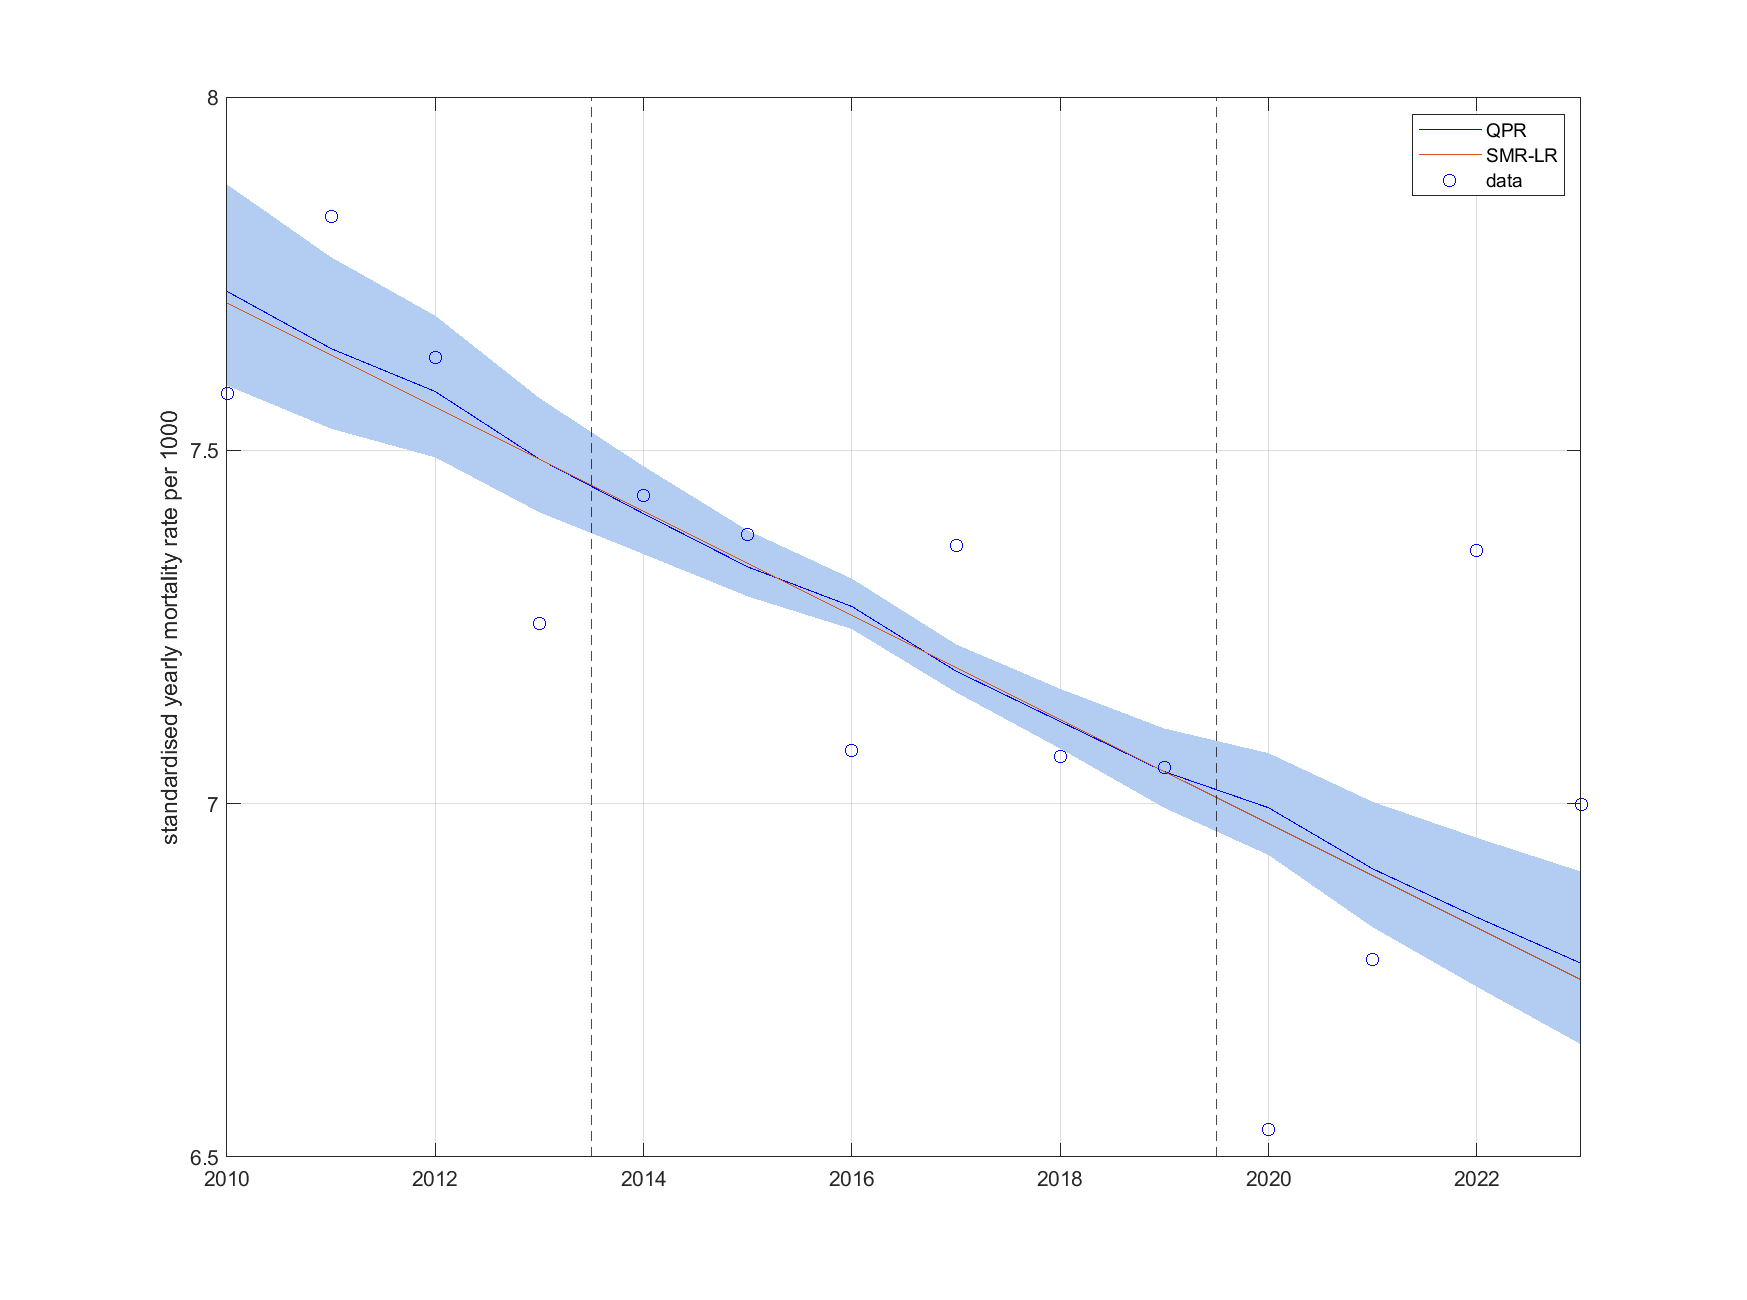
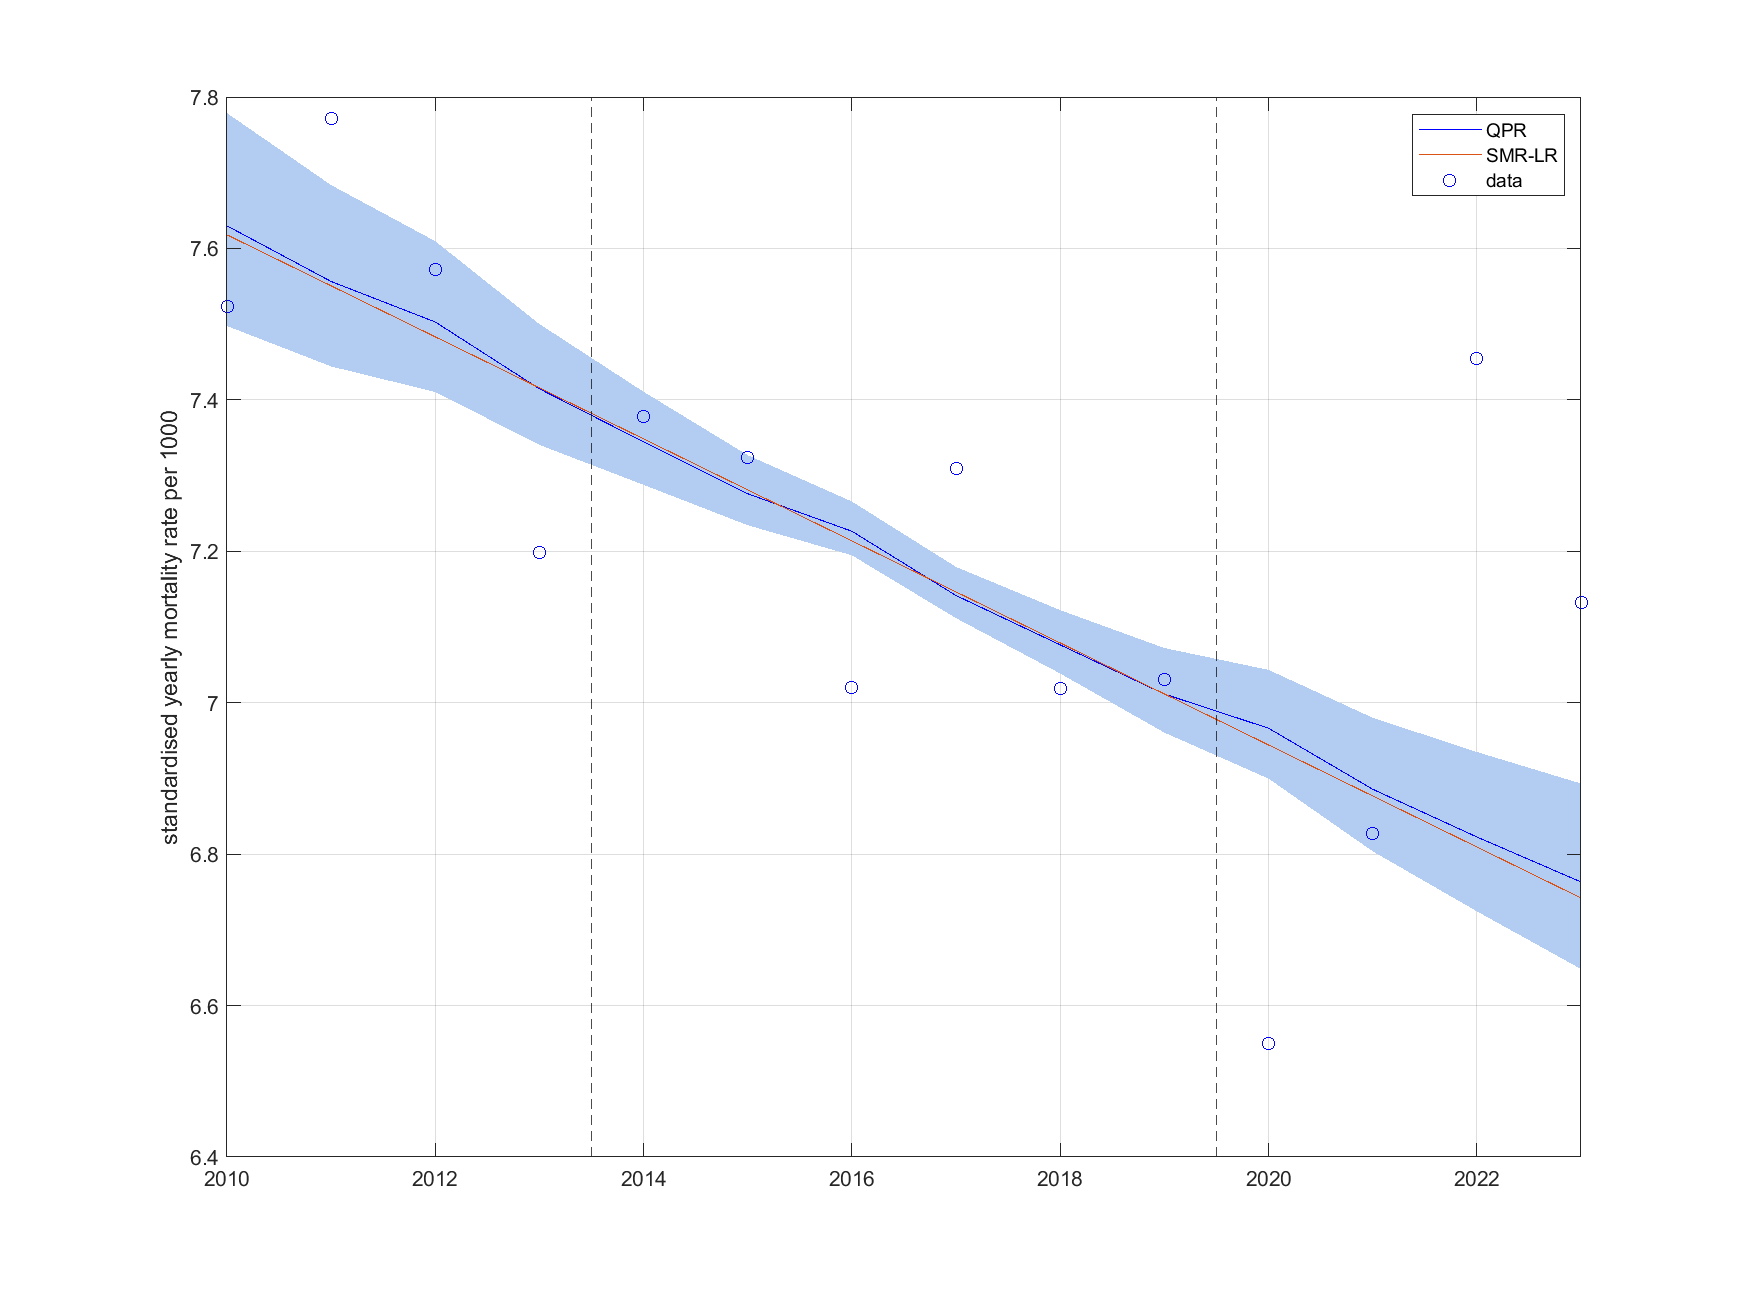
Rerun model on 2023 ERP

Changed region(s): [[0.1236, 0.0923, 0.9273, 0.8]]

diff --git a/results/supp_table.tex b/results/supp_table.tex
@@ -2,12 +2,12 @@
 \hline
 Baseline period & \multicolumn{3}{l}{Excess (QPR)} & Excess (SMR-LR) \\ 
 \hline
-2016--2019    &    -1984 [ & -4080, & -213]   &   -1812 \\ 
-2015--2019    &    -569 [ & -2214, & 961]   &   -443 \\ 
-2014--2019    &    -195 [ & -1668, & 1081]   &   -93 \\ 
-2013--2019    &    -1385 [ & -2695, & -200]   &   -1496 \\ 
-2012--2019    &    -526 [ & -1687, & 512]   &   -456 \\ 
-2011--2019    &    464 [ & -581, & 1421]   &   660 \\ 
-2010--2019    &    -98 [ & -1069, & 769]   &   -26 \\ 
+2016--2019    &    -1124 [ & -3199, & 622]   &   -923 \\ 
+2015--2019    &    428 [ & -1198, & 1937]   &   577 \\ 
+2014--2019    &    899 [ & -556, & 2153]   &   1021 \\ 
+2013--2019    &    -202 [ & -1498, & 969]   &   -282 \\ 
+2012--2019    &    703 [ & -450, & 1729]   &   804 \\ 
+2011--2019    &    1732 [ & 700, & 2674]   &   1957 \\ 
+2010--2019    &    1214 [ & 254, & 2070]   &   1317 \\ 
 \hline
 \end{tabular}

diff --git a/results/table.tex b/results/table.tex
@@ -2,12 +2,12 @@
 \hline
 Baseline period & \multicolumn{3}{l}{Excess (QPR)} & Excess (SMR-LR) \\ 
 \hline
-2016--2019    &    -1770 [ & -4973, & 924]   &   -1489 \\ 
-2015--2019    &    456 [ & -1999, & 2743]   &   641 \\ 
-2014--2019    &    1040 [ & -1134, & 2927]   &   1177 \\ 
-2013--2019    &    -784 [ & -2687, & 963]   &   -948 \\ 
-2012--2019    &    510 [ & -1152, & 2018]   &   611 \\ 
-2011--2019    &    1995 [ & 500, & 3368]   &   2271 \\ 
-2010--2019    &    1148 [ & -246, & 2402]   &   1258 \\ 
+2016--2019    &    -316 [ & -3472, & 2349]   &   -9 \\ 
+2015--2019    &    2118 [ & -303, & 4369]   &   2325 \\ 
+2014--2019    &    2849 [ & 705, & 4712]   &   3005 \\ 
+2013--2019    &    1168 [ & -711, & 2889]   &   1031 \\ 
+2012--2019    &    2532 [ & 894, & 4018]   &   2661 \\ 
+2011--2019    &    4073 [ & 2603, & 5423]   &   4375 \\ 
+2010--2019    &    3298 [ & 1925, & 4527]   &   3430 \\ 
 \hline
 \end{tabular}

diff --git a/Matlab/main.m b/Matlab/main.m
@@ -24,7 +24,7 @@ dataFolder = "../data/";
 resultsFolder = "../results/";
 
 % Data file names
-fNamePop = dataFolder + "infoshare_ERP_quarterly_2018_base.csv";
+fNamePop = dataFolder + "infoshare_ERP_quarterly_2023_base.csv";
 fNameCovidAge = dataFolder + "covid19_deaths_data_by_age.csv";
 fNameCovidSex = dataFolder + "covid19_deaths_data_by_sex.csv";
 
